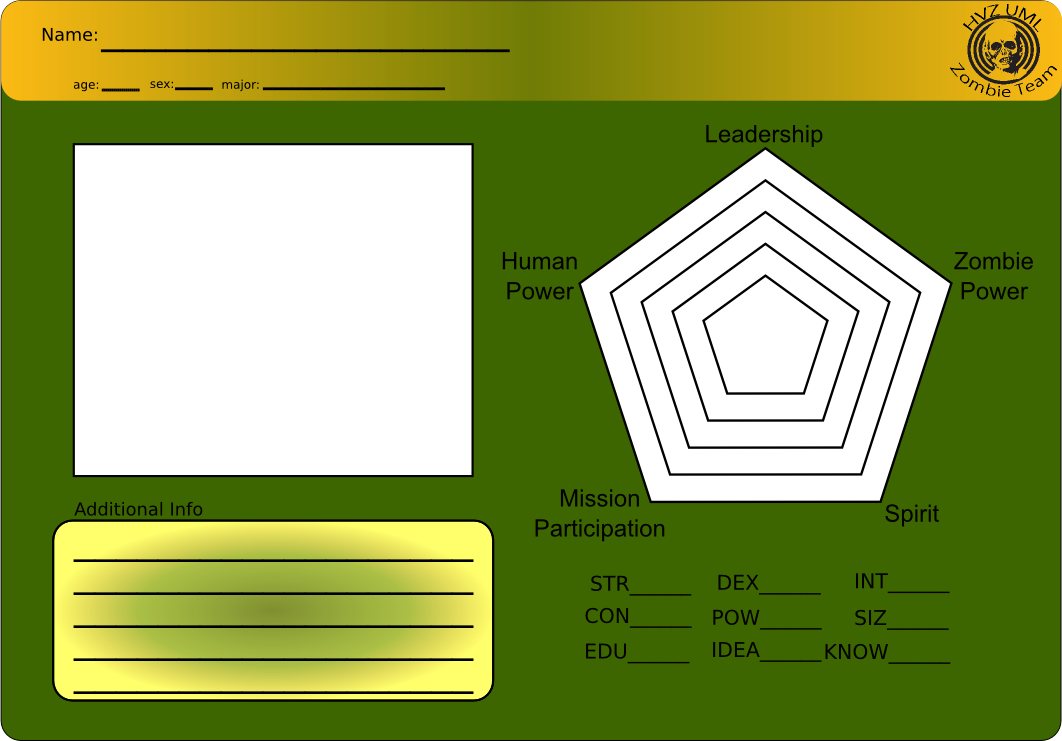
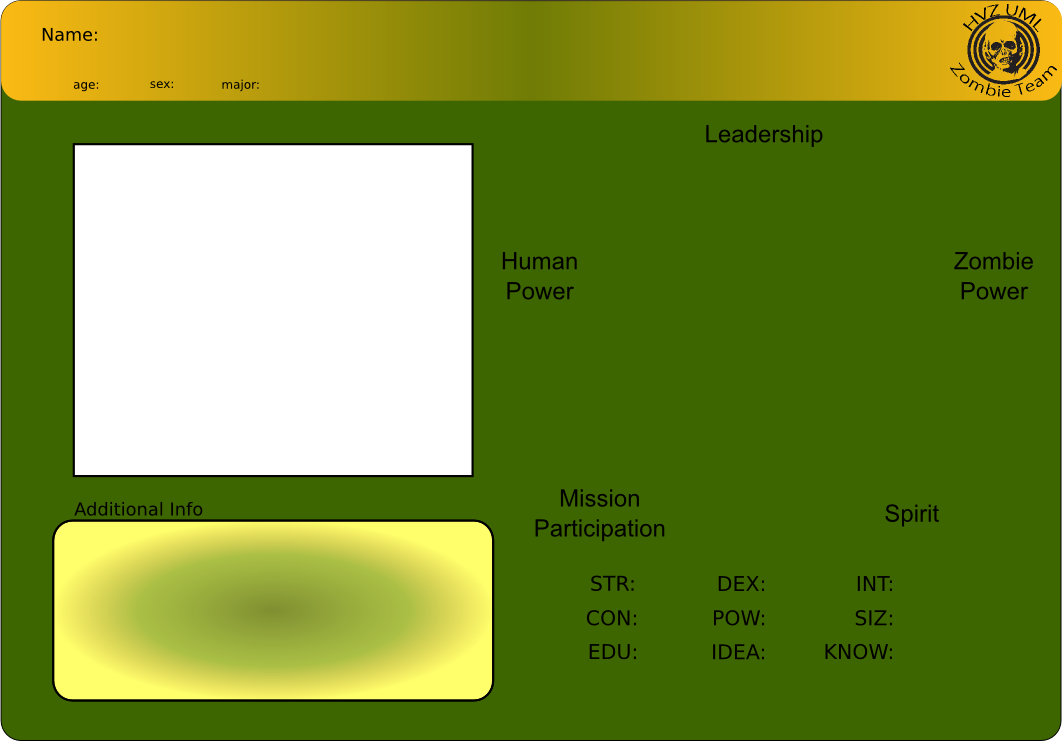
Profile pictures are now automatically placed and pentagon is generated by the script.

diff --git a/pGenerator.py b/pGenerator.py
@@ -75,7 +75,7 @@ def pentCoordSeq( distance ):
 def pentStatSeq( statslst ):
   coordlst, i = [], 0
   for item in statslst:
-    coordlst.extend( getPentagonCoords(i, int(item)*1.6 + 30) )
+    coordlst.extend( getPentagonCoords(i, int(item)*1.52 + 38) )
     i = i + 1
   return coordlst
 
@@ -129,23 +129,43 @@ for line in data:
   for c in range(10, 19):
     draw.text(statsPosition((c-10) % 3, (c-1)/3 - 3), line[c], statsFontColor, statsFont )
 
+  adraw = aggdraw.Draw(img)
 
-#  medBlackPen = aggdraw.Pen( "black", 1 )
-#  backgroundBrush = aggdraw.Brush( "white" ) 
-#  statsBrush = aggdraw.Brush( "red" )
+  medBlackPen = aggdraw.Pen( "black", 1 )
+  heavyBlackPen = aggdraw.Pen( "black", 3 )
+  backgroundBrush = aggdraw.Brush( "white" ) 
+  statsBrush = aggdraw.Brush( "red" )
 
   outline = pentCoordSeq( 190 )
-  draw.polygon(outline, fill=(255,255,255), outline=(0,0,0))
+  adraw.polygon(outline, backgroundBrush)
 
   statsOutline = pentStatSeq( line[5:10] )
-  draw.polygon(statsOutline, fill=pentagonColor)
+  adraw.polygon(statsOutline, statsBrush)
   
-  for p in range(0,5):
+  adraw.polygon(outline, heavyBlackPen)
+
+  for p in range(1,5):
     outline = pentCoordSeq( 190 - p*38 )
-    draw.polygon(outline, outline=(0,0,0))
+    adraw.polygon(outline, medBlackPen)
+  
+  adraw.flush()
+  
+  if line[19]:
+    profilepic = path.abspath( imageDirectory + line[19] )
+  else:
+    profilepic = path.abspath( imageDirectory + name + ".jpg" )
+
+  if path.exists( profilepic ):
+    profilepic = Image.open( profilepic )
+  else:
+    print "Error: Profile picture not found for " + name
+    profilepic = False 
+
+  if profilepic:
+    profileLocation = (75, 145, 472, 475)
+    frameXSz = profileLocation[2] - profileLocation[0]
+    frameYSz = profileLocation[3] - profileLocation[1]
+    profilepic = profilepic.resize((frameXSz, frameYSz))
+    img.paste(profilepic, profileLocation)
 
   img.save( exportDirectory + name + ".png" )
-
-
-
-
